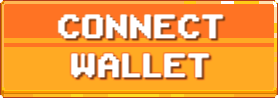
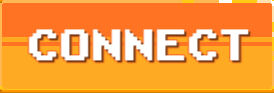
Reajuste nos tipos de login

diff --git a/main.py b/main.py
@@ -2,11 +2,13 @@ import time
 import datetime
 import os
 import pyautogui
-import pygetwindow
 import cv2
-import mss
 import requests
 import numpy as np
+import platform
+if platform.system() != 'Linux':
+    import pygetwindow
+    import mss
 from conf import *
 
 # Altura e largura, são populados no print_screen()
@@ -15,7 +17,7 @@ screen_width = screen_height = 0
 # Endereço da pasta das imagens
 img_path = os.path.abspath(os.path.dirname(__file__)) + os.sep + 'pics' + os.sep
 
-# Janelas do navegador encontradas
+# Janelas do navegador encontradas, ou abas, se informados vários username/password
 windows = []
 
 
@@ -49,51 +51,80 @@ def telegram_send_photo(photo_path, caption):
         time.sleep(1)
 
 
+def die(text):
+    """
+    Morre
+    :param text: Mensagem
+    :return: None
+    """
+    msg = f"{text}. Finalizando..."
+    telegram_send(msg)
+    print(msg)
+    exit()
+
+
 def get_windows_running_game():
     """
-    Encontra as janelas com o jogo aberto e cria um dictionary de controle para cada uma,
-    mesmo se o jogo estiver em browsers diferentes
+    Encontra as janelas (ou abas) com o jogo aberto e cria um dictionary de controle para cada uma
     :return: None
     """
     i = 1
-    for w in pygetwindow.getWindowsWithTitle('Bombcrypto '):
-        windows.append({
-            'window': w,
-            'index': str(i),
-            'login': False,
-            'working': False,
-            'farming': False,
-            'time_to_refresh': 0,
-            'time_to_rest': 0
-        })
-        i += 1
+    if login_with_metamask:
+        # Se o login for via Metamask, o bot contará o número de JANELAS abertas no jogo e
+        # percorrerá cada uma delas, cada janela deve ter duas abas, uma para o jogo e outra
+        # para a Metamask em tela cheia
+        if platform.system() == 'Linux':
+            msg = f"O login com a Metamask não é suportado pelo Linux, pois no momento, não há " \
+                  f"suporte para o módulo PyGetWindow, que é necessário, informe False para a " \
+                  f"variável login_with_metamask no arquivo conf.py e também o(s) username(s) " \
+                  f"e password(s) na variável login_credentials"
+            die(msg)
 
-    n = len(windows)
-    s = '' if n == 1 else 's'
-    msg = "Nenhuma janela encontrada! Finalizando..." \
-        if n == 0 else \
-        f"Opa, encontrei {n} janela{s} do browser rodando o Bombcrypto, iniciando os trabalhos..."
-    telegram_send(msg)
-    if n == 0:
-        print(msg)
-        exit()
-    if not login_with_metamask:
-        # Adiciona um username e um password a cada janela encontrada, de acordo com a variável login_credentials
+        for w in pygetwindow.getWindowsWithTitle('Bombcrypto '):
+            windows.append({
+                'window': w,
+                'index': str(i),
+                'login': False,
+                'working': False,
+                'farming': False,
+                'time_to_refresh': 0,
+                'time_to_rest': 0
+            })
+            i += 1
+    else:
+        # Se o login for por usuário e senha, o número de ABAS abertas com o jogo deve ser igual
+        # ao número de pares de username/password informados em login_credentials, no conf.py
         usernames = login_credentials.keys()
         user_list = list(usernames)
         passwords = login_credentials.values()
         pass_list = list(passwords)
-        if n == len(user_list) == len(pass_list):
-            i = 0
-            for w in windows:
-                w['username'] = user_list[i]
-                w['password'] = pass_list[i]
+        if len(user_list) == len(pass_list) and len(user_list) > 0:
+            for x in range(len(user_list)):
+                windows.append({
+                    'index': str(i),
+                    'login': False,
+                    'working': False,
+                    'farming': False,
+                    'time_to_refresh': 0,
+                    'time_to_rest': 0,
+                    'username': user_list[x],
+                    'password': pass_list[x]
+                })
                 i += 1
+
         else:
-            msg = "Número de username/password diferentes do número de janelas encontradas, finalizando..."
-            telegram_send(msg)
-            print(msg)
-            exit()
+            die("Número de username/password diferentes")
+
+    n = len(windows)
+    s = '' if n == 1 else 's'
+    aj = 'janela' if login_with_metamask else 'aba'
+    msg = f"Nenhuma {aj} encontrada! Finalizando..." \
+        if n == 0 else \
+        f"Opa, encontrei {n} {aj}{s} do browser rodando o Bombcrypto, iniciando os trabalhos..."
+    telegram_send(msg)
+    # Não é login com a Metamask, portando não há controle de janelas, agora são abas,
+    # serve para sair do terminal aberto, se houver abas
+    die(msg) if n == 0 else pyautogui.hotkey('alt', 'tab')
 
 
 def print_screen():
@@ -101,14 +132,17 @@ def print_screen():
     Print da primeira tela e atualização da altura e largura do monitor
     :return: Array
     """
-    with mss.mss() as sct:
-        monitor = sct.monitors[0]
-        sct_img = sct.grab(monitor)
-        global screen_width, screen_height
-        screen_width, screen_height = sct_img.size
-        sct_img = np.array(sct_img)
+    global screen_width, screen_height
+    sct_img = None
+    if platform.system() != 'Linux':
+        with mss.mss() as sct:
+            monitor = sct.monitors[0]
+            sct_img = sct.grab(monitor)
+    else:
+        sct_img = pyautogui.screenshot()
 
-    return sct_img
+    screen_width, screen_height = sct_img.size
+    return np.array(sct_img)
 
 
 def found_img(window, img, click=False, refresh=True, max_attempt=0):
@@ -184,7 +218,7 @@ def connect_wallet(window):
         if found_img(window, "connect_wallet.png", True):
             login(window) if not login_with_metamask else connect_with_metamask(window)
             if not window['login'] and found_img(window, "treasure_hunt.png"):
-                login_method = "localmente" if not login_with_metamask else "com a Metamask"
+                login_method = "com usuário e senha" if not login_with_metamask else "via Metamask"
                 telegram_send(f"Janela {window['index']}: conectado {login_method}")
                 window['login'] = True
                 window['time_to_refresh'] = time.time()
@@ -214,9 +248,7 @@ def login(window):
                             del windows[i]
                             break
                     if not windows:
-                        telegram_send(f"{msg} nenhuma janela aberta, finalizando...")
-                        print(f"{msg} nenhuma janela aberta, finalizando...")
-                        exit()
+                        die(f"{msg} nenhuma janela aberta")
 
 
 def connect_with_metamask(window):
@@ -371,9 +403,13 @@ if __name__ == '__main__':
     get_windows_running_game()
     while True:
         for current in windows:
-            current['window'].activate()
-            if not current['window'].isMaximized:
-                current['window'].maximize()
+            if login_with_metamask:
+                current['window'].activate()
+                if not current['window'].isMaximized:
+                    current['window'].maximize()
 
             actions(current)
             time.sleep(2)
+            if not login_with_metamask and len(windows) > 1:
+                pyautogui.hotkey('ctrl', 'tab')
+                time.sleep(2)

diff --git a/conf.py b/conf.py
@@ -5,7 +5,7 @@
 # ele está errando, pela mesma imagem, na sua resolução, assim irá funcionar, o padrão
 # é 0.9
 # !APENAS VALORES NUMÉRICOS de 0.6 até 0.9
-threshold = 0.9
+threshold = 0.8
 
 # Delay para logar novamente e colocar todos os bhero para trabalhar, informe sempre
 # o tempo em segundos, calcule um tempo legal em que todos os seus bhero se recuperam
@@ -62,13 +62,13 @@ bot_token = ''
 
 # Se decidiu receber notificações por telegram e informou o bot_token, você também deve
 # informa o chat_id, ele é o Id da sua conversa com o bot, para descobrir seu chatId,
-# mande uma mensagem para o seu bot, após isso, ecesse o link https://api.telegram.org/bot<token>/getUpdates,
+# mande uma mensagem para o seu bot, após isso, acesse o link https://api.telegram.org/bot<token>/getUpdates,
 # substituindo o <token> pelo token recebido do @BotFather, procure pela chave "id" no json
 # recebido, esse é o chatId
 # !APENAS VALORES DE TEXTO, COM ASPAS
 chat_id = ''
 
 # Informe a partir de que horário (formato 24h, ex: 15:30) deseja que o bot envie um print da
-# quantia total de bcoin até o momento, pelo Telegram, apenas  uma vez
+# quantia total de bcoin até o momento, pelo Telegram, apenas  uma vez, a cada 24h
 # !APENAS VALORES DE TEXTO, COM ASPAS
 time_notify_ammount_of_bcoin = '09:00'

diff --git a/README.md b/README.md
@@ -30,8 +30,10 @@ como na imagem de exemplo a seguir:
 
 Se você optar pelo login com **username e password** introduzido
 na versão **33** do jogo, não será necessária a aba com a Metamask
-aberta, mas ainda sim será necessário janelas diferentes em caso de
-várias contas!
+aberta, se você tiver várias contas, basta abrir mais uma aba com o jogo
+e configurar os usernames e passwords na variável **login_credentials**,
+no arquivo **conf.py**. O número de abas abertas deve ser igual ao
+número de usuários e senhas configurados! Esteja avisado.
 
 Ou seja, ele é **multi-account** e também **multi-platform**,
 pois roda no Windows, Linux, Mac... coisa boa hein? Quanto ao
@@ -87,11 +89,13 @@ anteriormente digitando **cd caminho/salvo/fm-bombcrypto-bot**,
 obviamente, o caminho será colado no terminal.
 * Instale as dependências do projeto digitando o comando
 **pip install -r requirements.txt**.
+* Se você utiliza Linux, rode também o seguinte comando no
+terminal: **apt install scrot python3-tk python3-dev**.
   
 ## Utilização
 * Configure as variáveis de sua preferência no arquivo
 **conf.py**, se necessário.
-* Com as janelas do browser já abertas, como explicado
+* Com as janelas (ou abas, dependendo do tipo de login) do browser já abertas, como explicado
 ali em capacidades, execute o comando:
 **python caminho/salvo/fm-bombcrypto-bot/main.py** e
 aperte ENTER.

diff --git a/CHANGELOG.md b/CHANGELOG.md
@@ -1,5 +1,21 @@
 # Log de atualizações
 
+### Update em 06/03/2022
+#### Versão do game: 35
+* Alteração das imagens de conectar, quantidade de BCOIN, campo
+de login e campo de senha.
+* Threshold global calibrado para 0.8.
+* O login com username/password (escolinha) agora funciona com
+multiaccount em **abas** diferentes, o número de abas com o jogo
+aberto deve ser igual ao número de username/password informados
+na variável **login_credentials**, no **conf.py**.
+**Obviamente você vai preferir esse tipo de login**.
+* O login via Metamask no momento só está funcionando no Windows,
+mas permanece da mesma forma, duas abas em cada janela, uma para
+o jogo e outra para a Metamask em tela cheia.
+* Função de print otimizada para o Linux, para funcionar
+correntamente, não esqueça de instalar os pacotes **scrot**,
+**python3-tk** e **python3-dev** via **apt**.
 ---
 ### Update em 24/02/2022
 #### Versão do game: 33
